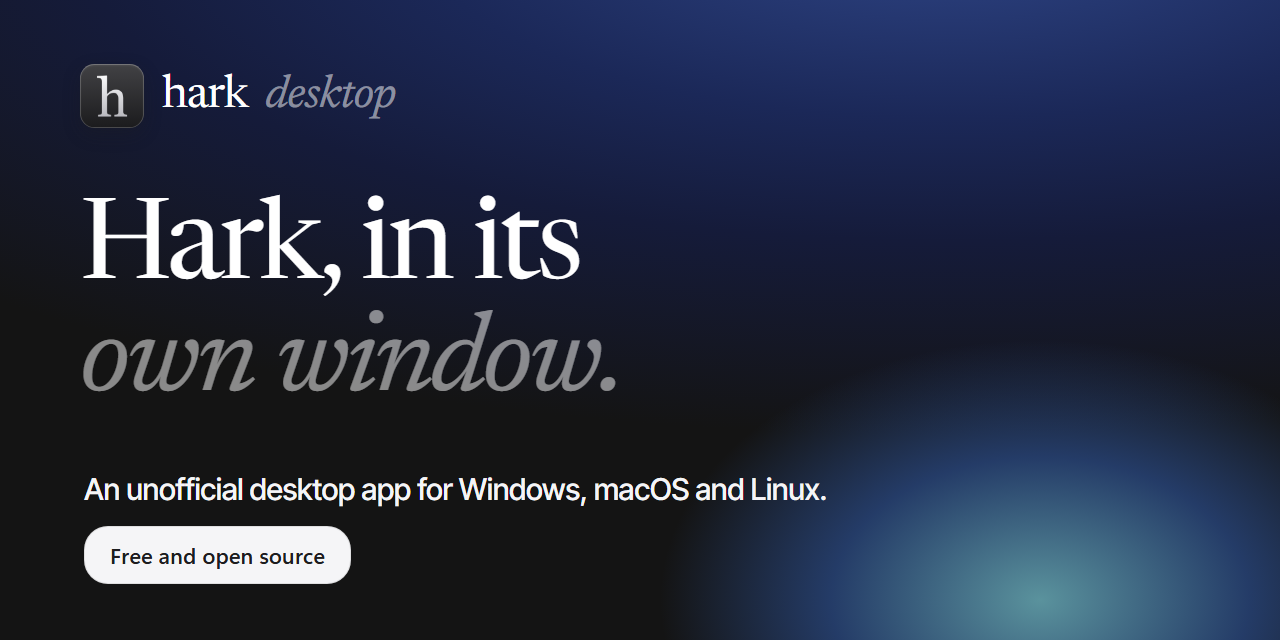
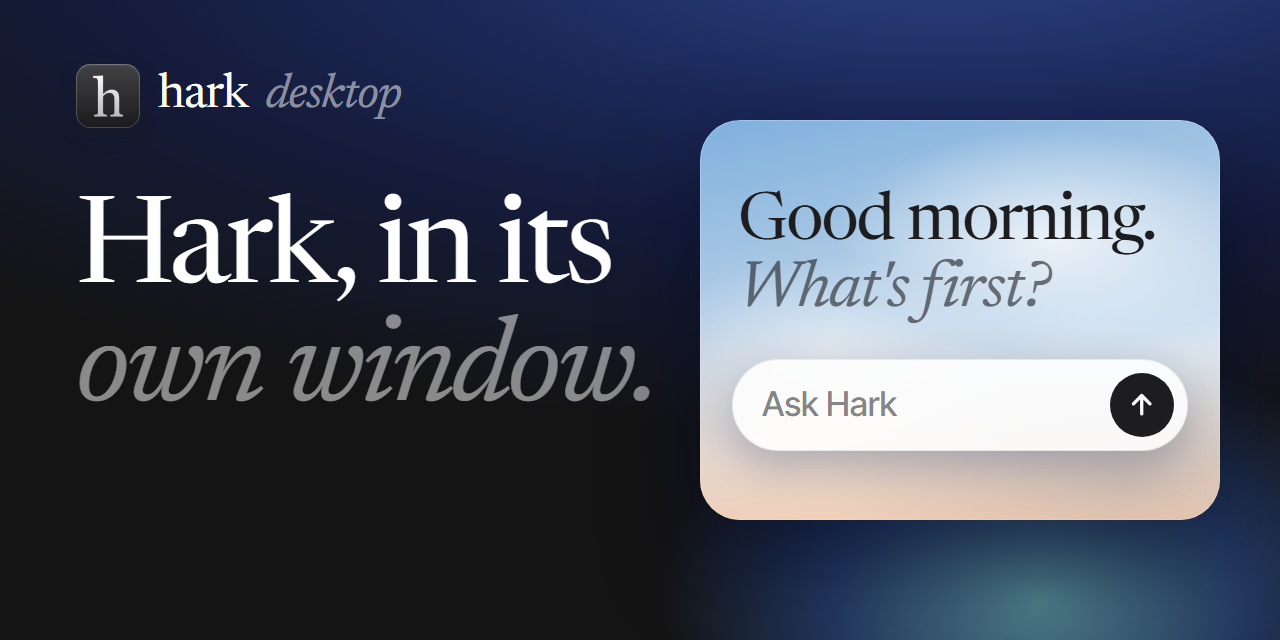
fix(site): a simpler social card with bigger text
The link preview now shows the headline and the quick ask, large, in a
piece of Hark's sky, instead of a smaller tagline and button. Everything
on it still reads at the size chat apps show it. The image URL gains a
version so link previews fetch the new picture.

diff --git a/branding/src/social.html b/branding/src/social.html
@@ -10,22 +10,34 @@
       @font-face { font-family: "Inter Tight"; font-weight: 100 900; src: url("/docs/assets/fonts/inter-tight.woff2") format("woff2-variations"); }
       html, body { width: 1280px; height: 640px; overflow: hidden; }
       body { position: relative; background: radial-gradient(110% 80% at 74% -12%, #2f4688 0%, #1b2858 38%, #151b3a 62%, #141414 100%); font-family: "Inter Tight", var(--font); color: #fff; }
-      .brand { position: absolute; left: 80px; top: 64px; display: flex; align-items: center; gap: 18px; }
+      .glow { position: absolute; right: -140px; bottom: -220px; width: 760px; height: 520px; background: radial-gradient(closest-side, rgba(120, 200, 215, 0.6), rgba(56, 108, 205, 0.4) 55%, rgba(20, 20, 20, 0) 100%); }
+      .brand { position: absolute; left: 76px; top: 64px; display: flex; align-items: center; gap: 18px; }
       .brand .tile { --s: 64px; }
-      .brand b { font: 400 46px/1 "Newsreader", var(--serif); letter-spacing: -0.025em; }
-      .brand i { font: italic 400 46px/1 "Newsreader", var(--serif); color: rgba(255, 255, 255, 0.5); letter-spacing: -0.025em; }
-      h1 { position: absolute; left: 80px; top: 196px; font: 400 112px/1 "Newsreader", var(--serif); letter-spacing: -0.035em; }
+      .brand b { font: 400 48px/1 "Newsreader", var(--serif); letter-spacing: -0.025em; }
+      .brand i { font: italic 400 48px/1 "Newsreader", var(--serif); color: rgba(255, 255, 255, 0.5); letter-spacing: -0.025em; }
+      h1 { position: absolute; left: 76px; font: 400 120px/0.98 "Newsreader", var(--serif); letter-spacing: -0.035em; }
       h1 em { color: rgba(255, 255, 255, 0.5); }
-      p { position: absolute; left: 84px; top: 470px; font: 500 30px/1.3 "Inter Tight", var(--font); color: #f5f5f7; letter-spacing: -0.01em; }
-      .pill { position: absolute; left: 84px; bottom: 56px; padding: 14px 26px; border-radius: 24px; background: #f5f5f7; color: #1d1d1f; font-size: 22px; font-weight: 550; }
-      .glow { position: absolute; right: -140px; bottom: -220px; width: 760px; height: 520px; background: radial-gradient(closest-side, rgba(120, 200, 215, 0.7), rgba(56, 108, 205, 0.45) 55%, rgba(20, 20, 20, 0) 100%); }
+      .ring { position: relative; flex: none; display: grid; place-items: center; }
+      .ring svg { position: absolute; inset: 0; transform: rotate(-90deg); }
+      .send { flex: none; display: grid; place-items: center; border-radius: 50%; background: #1d1d1f; }
     </style>
+    <style>
+      h1 { top: 196px; }
+      .scene { position: absolute; left: 700px; top: 120px; width: 520px; height: 400px; border-radius: 40px; overflow: hidden; box-shadow: 0 40px 90px rgba(4, 10, 40, 0.55), inset 0 0 0 1px rgba(255, 255, 255, 0.25); }
+      .warm { position: absolute; inset: auto 0 0 0; height: 50%; background: linear-gradient(rgba(255, 214, 186, 0), rgba(246, 190, 150, 0.6)); }
+      .little { position: absolute; left: 32px; right: 32px; top: 70px; }
+      .hello { font: 400 66px/1.02 "Newsreader", var(--serif); letter-spacing: -0.03em; color: #1d1d1f; margin: 0 6px 34px; }
+      .hello i { display: block; color: rgba(29, 29, 31, 0.6); }
+      .bar { display: flex; align-items: center; justify-content: space-between; gap: 16px; padding: 14px 14px 14px 30px; border-radius: 60px; background: rgba(255, 255, 255, 0.88); box-shadow: inset 0 0 0 1px rgba(29, 29, 31, 0.08), 0 16px 40px rgba(20, 40, 90, 0.25); font: 500 34px/1.2 "Inter Tight", var(--font); color: rgba(29, 29, 31, 0.55); }
+      .bar .send { width: 64px; height: 64px; }
+</style>
   </head>
   <body>
     <div class="glow"></div>
     <div class="brand"><div class="tile"></div><b>hark</b><i>desktop</i></div>
     <h1>Hark, in its<br /><em>own window.</em></h1>
-    <p>An unofficial desktop app for Windows, macOS and Linux.</p>
-    <div class="pill">Free and open source</div>
+    <div class="scene sky"><div class="warm"></div>
+      <div class="little"><div class="hello">Good morning. <i>What's first?</i></div><div class="bar"><span>Ask Hark</span><span class="send"><svg viewBox="0 0 16 16" width="46%" height="46%" fill="none" stroke="#f9f9fa" stroke-width="1.8" stroke-linecap="round" stroke-linejoin="round"><path d="M8 13V3M3.5 7.5L8 3l4.5 4.5" /></svg></span></div></div>
+    </div>
   </body>
 </html>

diff --git a/docs/index.html b/docs/index.html
@@ -10,7 +10,7 @@
     <meta property="og:title" content="Hark Desktop" />
     <meta property="og:description" content="Hark in its own window. An unofficial, lightweight desktop app for Windows, macOS and Linux." />
     <meta property="og:url" content="https://harkdesk.top/" />
-    <meta property="og:image" content="https://harkdesk.top/assets/social.png" />
+    <meta property="og:image" content="https://harkdesk.top/assets/social.png?v=2" />
     <meta name="twitter:card" content="summary_large_image" />
     <link rel="canonical" href="https://harkdesk.top/" />
     <link rel="icon" href="assets/favicon.png" type="image/png" />
